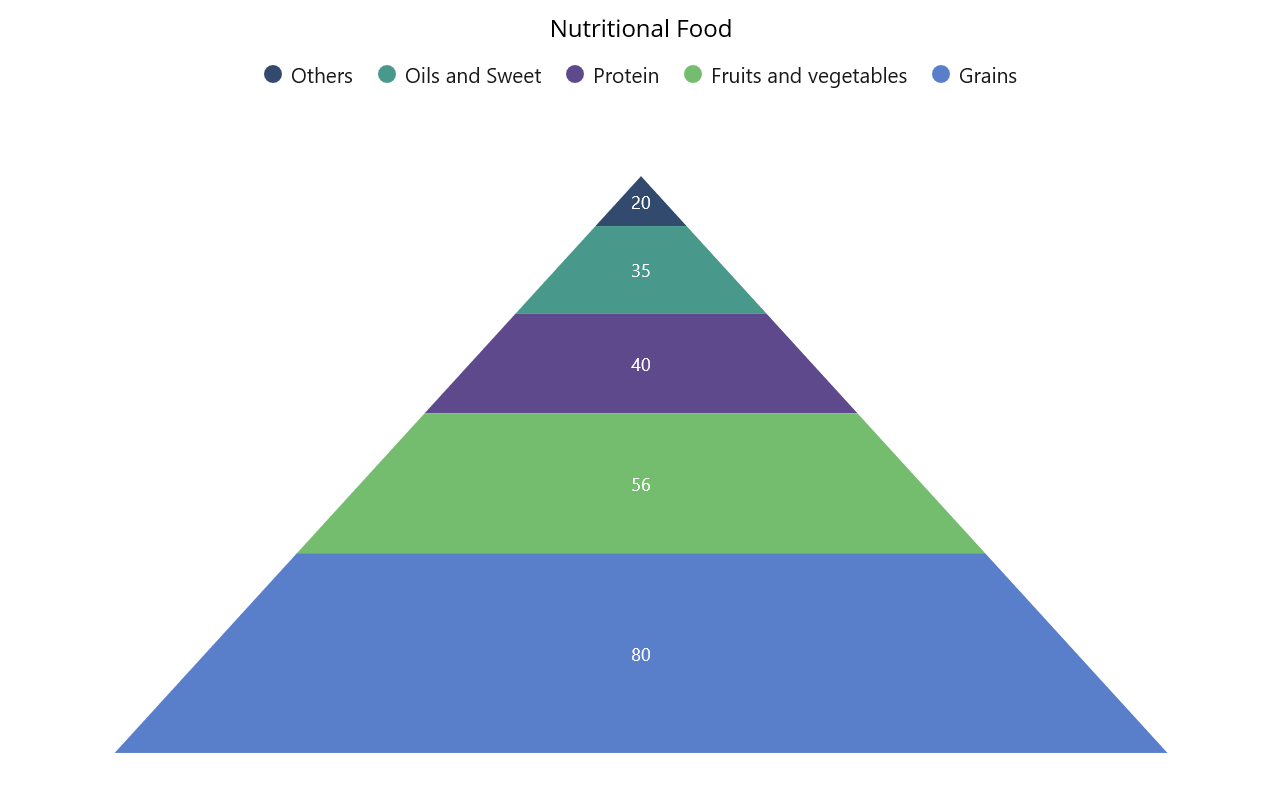
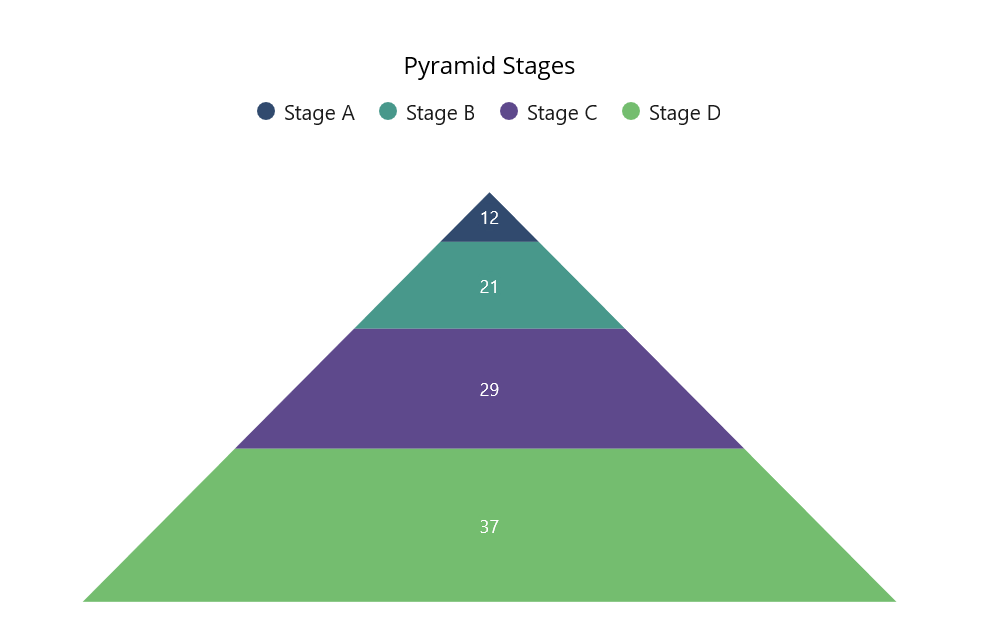
updated the getting started page for pyramid chart

diff --git a/MAUI/Pyramid-Charts/Getting-Started.md b/MAUI/Pyramid-Charts/Getting-Started.md
@@ -91,7 +91,7 @@ Now, let us define a simple data model that represents a data point in the chart
 
 {% highlight c# %}
 
- public class Learning
+ public class Stage
 {
     public string Name { get; set; }
     public double Value { get; set; }
@@ -109,17 +109,16 @@ Next, create a view model class and initialize a list of `Model` objects as foll
 
 public class ChartViewModel
 {
-    public List<Learning> Data { get; set; }
+    public List<Stage> Data { get; set; }
 
     public ChartViewModel()
     {
-        Data = new List<Learning>()
+        Data = new List<Stage>()
         {
-            new Learning(){Name = "Others", Value = 20},
-            new Learning(){Name = "Oils and Sweet", Value = 35},
-            new Learning(){Name = "Protein", Value = 40},
-            new Learning(){Name = "Fruits and vegetables", Value = 56},
-            new Learning(){Name = "Grains", Value = 80},
+            new Stage(){Name = "Stage A", Value = 12},
+            new Stage(){Name = "Stage B", Value = 21},
+            new Stage(){Name = "Stage C", Value = 29},
+            new Stage(){Name = "Stage D", Value = 37},
         };
     }
 }
@@ -199,7 +198,7 @@ The title of the chart acts as the title to provide quick information to the use
 
 <chart:SfPyramidChart>
     <chart:SfPyramidChart.Title>
-        <Label Text="Nutritional Food"/>
+        <Label Text="Pyramid Stages"/>
     </chart:SfPyramidChart.Title>
     . . .
 </chart:SfPyramidChart>
@@ -211,7 +210,7 @@ The title of the chart acts as the title to provide quick information to the use
 SfPyramidChart chart = new SfPyramidChart();
 chart.Title = new Label
 {
-    Text = "Nutritional Food"
+    Text = "Pyramid Stages"
 };
 
 {% endhighlight %}
@@ -299,9 +298,13 @@ The following code example gives you the complete code of above configurations.
 
 {% highlight xaml %}
 
-<chart:SfPyramidChart  ItemsSource="{Binding Data}" ShowDataLabels="True" XBindingPath="Name" EnableTooltip="True"        YBindingPath="Value">
+<chart:SfPyramidChart ItemsSource="{Binding Data}" 
+                      ShowDataLabels="True" 
+                      XBindingPath="Name" 
+                      EnableTooltip="True"        
+                      YBindingPath="Value">
     <chart:SfPyramidChart.Title>
-        <Label Text="Nutritional Food"/>
+        <Label Text="Pyramid Stages"/>
     </chart:SfPyramidChart.Title>
     <chart:SfPyramidChart.BindingContext>
         <model:ChartViewModel/>
@@ -324,7 +327,7 @@ public partial class MainPage : ContentPage
         SfPyramidChart chart = new SfPyramidChart();
         chart.Title = new Label
         {
-            Text = "Nutritional Food"
+            Text = "Pyramid Stages"
         };
         chart.Legend = new ChartLegend();
         ChartViewModel viewModel = new ChartViewModel();

diff --git a/MAUI/Funnel-Charts/Getting-Started.md b/MAUI/Funnel-Charts/Getting-Started.md
@@ -299,7 +299,11 @@ The following code example gives you the complete code of above configurations.
 
 {% highlight xaml %}
 
-<chart:SfFunnelChart  ItemsSource="{Binding Data}" ShowDataLabels="True" XBindingPath="Name" EnableTooltip="True"        YBindingPath="Value">
+<chart:SfFunnelChart ItemsSource="{Binding Data}" 
+                     ShowDataLabels="True" 
+                     XBindingPath="Name" 
+                     EnableTooltip="True"        
+                     YBindingPath="Value">
     <chart:SfFunnelChart.Title>
         <Label Text="Nutritional Food"/>
     </chart:SfFunnelChart.Title>
